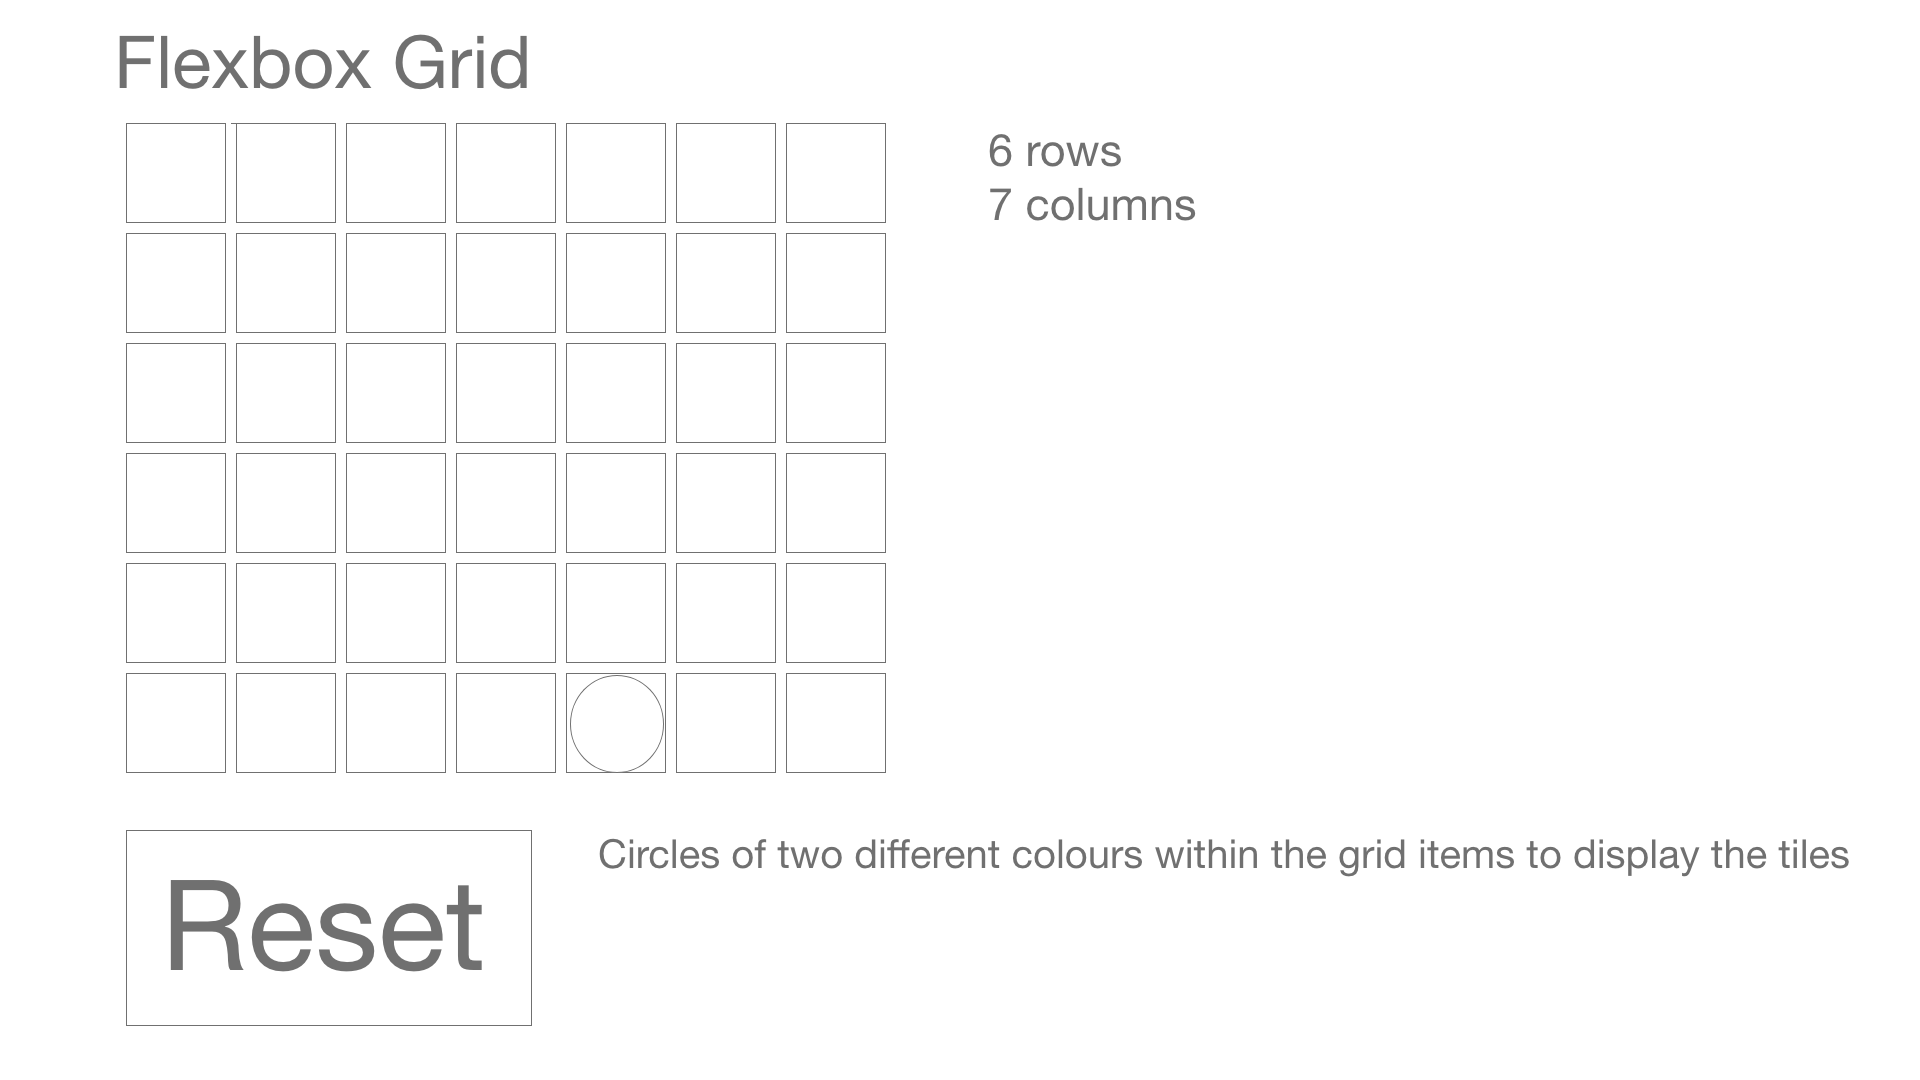
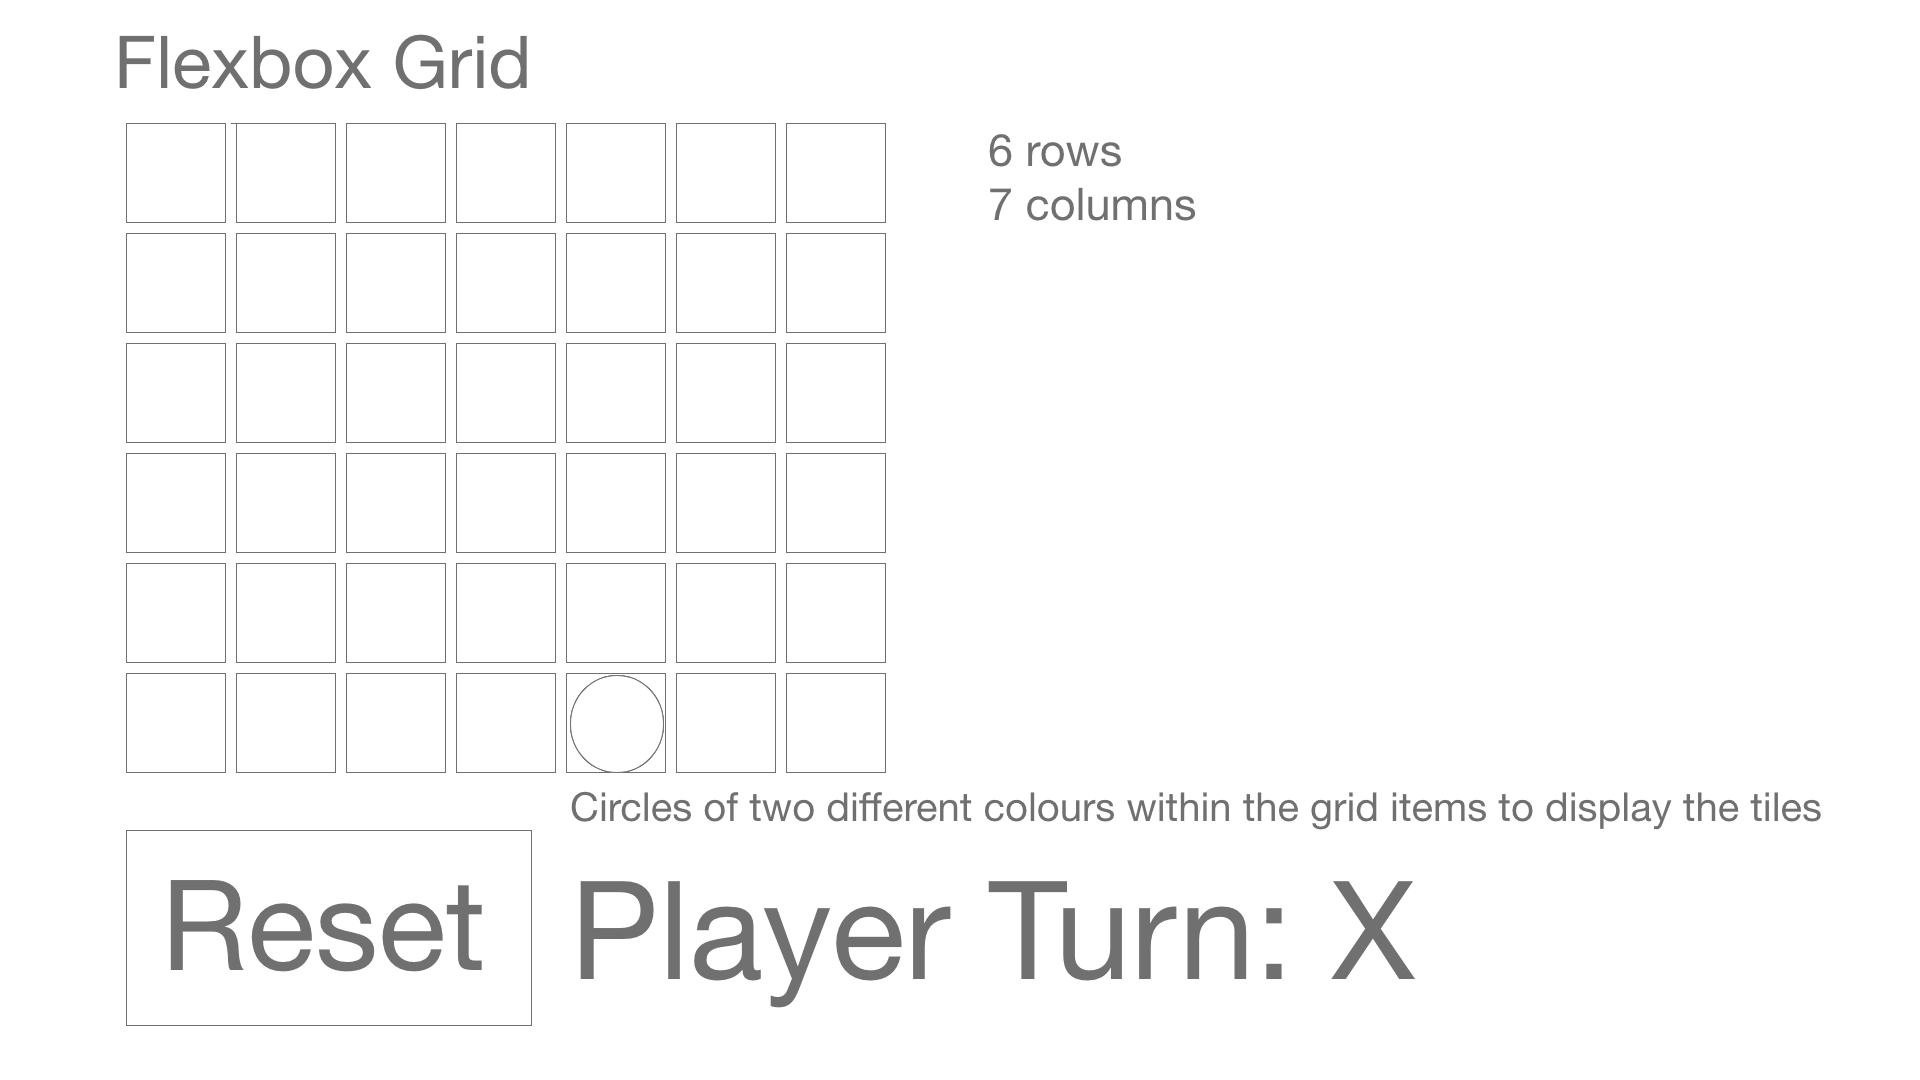
board click logic added with render function to change color based on turn

Changed region(s): [[0.2812, 0.7333, 0.9688, 0.9472]]

diff --git a/script.js b/script.js
@@ -2,13 +2,23 @@ let boardArray = [];
 let board = document.querySelector(".board"); 
 let squares = document.querySelectorAll(".board div");
 let playerTurn = 1;
+let playerTurnEl = document.querySelector("h1");
+let currentClick = null;
+let toFill = null;
 
 Array.from(squares).forEach(square=> {
     square.addEventListener('click', clickSquare)
 })
 
+//event listener which tracks square clicks and then calls render 
+function clickSquare() {
+    let click = parseInt(this.dataset.id);
+    currentClick = click;
+    update();
+    render();
 
-//event listener
+}
+
 // createBoard function fills boardArray with circle data all set to 0
 function createBoard(){ 
     for(let i=0;i<42;i++){ 
@@ -19,17 +29,144 @@ function createBoard(){
 }
 
 function render() {
-    
+    squares.forEach(function(e) {
+
+        if (!e.classList.contains('p1')&&!e.classList.contains('p2')) {
+            if(e.getAttribute('data-id') == toFill && playerTurn == 1) {
+                e.classList.remove('square');
+                e.classList.add('p1');
+                boardArray[toFill] = 1;
+                playerTurn = 2;
+            }
+            else if(e.getAttribute('data-id') == toFill && playerTurn == 2) {
+                e.classList.remove('square');
+                e.classList.add('p2');
+                boardArray[toFill] = 2;
+                playerTurn = 1;
+            }
+        }
+    });
+    playerTurnEl.innerText = "Player Turn: "+playerTurn;
 }
 
-//event listener which tracks square clicks and then handles updating the boardArray, it then calls render
-function clickSquare() {
-    let click = parseInt(this.dataset.id);
-    if (playerTurn ==1) {
-        boardArray[click] = 1;
-        console.log(boardArray[click]);
+
+function update() {
+     //check that class position is empty
+     console.log(currentClick);
+     //far left column logic
+     if (currentClick === 0 ||currentClick === 7||currentClick===14||currentClick===21||currentClick===28||currentClick===35) {
+         if (boardArray[35] == 0) {
+             toFill = 35;
+         } else if (boardArray[35] != 0 && boardArray[28] == 0) {
+             toFill = 28;
+         } else if (boardArray[28] != 0 && boardArray[21] == 0) {
+             toFill = 21;
+         } else if (boardArray[21] != 0 && boardArray[14] == 0) {
+             toFill = 14;
+         } else if (boardArray[14] != 0 && boardArray[7] == 0) {
+             toFill = 7;
+         } else if (boardArray[7] != 0 && boardArray[0] == 0) {
+             toFill = 0;
+         }
+     }
+     //column 01 logic
+      if (currentClick === 1||currentClick === 8||currentClick===15||currentClick===22||currentClick===29||currentClick===36) {
+         if (boardArray[36] == 0) {
+             toFill = 36;
+         } else if (boardArray[36] != 0 && boardArray[29] == 0) {
+             toFill = 29;
+         } else if (boardArray[29] != 0 && boardArray[22] == 0) {
+             toFill = 22;
+         } else if (boardArray[22] != 0 && boardArray[15] == 0) {
+             toFill = 15;
+         } else if (boardArray[15] != 0 && boardArray[8] == 0) {
+             toFill = 8;
+         } else if (boardArray[8] != 0 && boardArray[1] == 0) {
+             toFill = 1;
+         }
+     }
+    //column 02 logic
+    if (currentClick === 2||currentClick === 9||currentClick===16||currentClick===23||currentClick===30||currentClick===37) {
+        if (boardArray[37] == 0) {
+            toFill = 37;
+        } else if (boardArray[37] != 0 && boardArray[30] == 0) {
+            toFill = 30;
+        } else if (boardArray[30] != 0 && boardArray[23] == 0) {
+            toFill = 23;
+        } else if (boardArray[23] != 0 && boardArray[16] == 0) {
+            toFill = 16;
+        } else if (boardArray[16] != 0 && boardArray[9] == 0) {
+            toFill = 9;
+        } else if (boardArray[9] != 0 && boardArray[2] == 0) {
+            toFill = 2;
+        }
     }
-    console.log(click);
-    render();
+    //column 03 logic
+    if (currentClick === 3||currentClick === 10||currentClick===17||currentClick===24||currentClick===31||currentClick===38) {
+        if (boardArray[38] == 0) {
+            toFill = 38;
+        } else if (boardArray[38] != 0 && boardArray[31] == 0) {
+            toFill = 31;
+        } else if (boardArray[31] != 0 && boardArray[24] == 0) {
+            toFill = 24;
+        } else if (boardArray[24] != 0 && boardArray[17] == 0) {
+            toFill = 17;
+        } else if (boardArray[17] != 0 && boardArray[10] == 0) {
+            toFill = 10;
+        } else if (boardArray[10] != 0 && boardArray[3] == 0) {
+            toFill = 3;
+        }
+    }
+     //column 04 logic
+     if (currentClick === 4||currentClick === 11||currentClick===18||currentClick===25||currentClick===32||currentClick===39) {
+        if (boardArray[39] == 0) {
+            toFill = 39;
+        } else if (boardArray[39] != 0 && boardArray[32] == 0) {
+            toFill = 32;
+        } else if (boardArray[32] != 0 && boardArray[25] == 0) {
+            toFill = 25;
+        } else if (boardArray[25] != 0 && boardArray[18] == 0) {
+            toFill = 18;
+        } else if (boardArray[18] != 0 && boardArray[11] == 0) {
+            toFill = 11;
+        } else if (boardArray[11] != 0 && boardArray[4] == 0) {
+            toFill = 4;
+        }
+    }
+      //column 05 logic
+      if (currentClick === 5||currentClick === 12||currentClick===19||currentClick===26||currentClick===33||currentClick===40) {
+        if (boardArray[40] == 0) {
+            toFill = 40;
+        } else if (boardArray[40] != 0 && boardArray[33] == 0) {
+            toFill = 33;
+        } else if (boardArray[33] != 0 && boardArray[26] == 0) {
+            toFill = 26;
+        } else if (boardArray[26] != 0 && boardArray[19] == 0) {
+            toFill = 19;
+        } else if (boardArray[19] != 0 && boardArray[12] == 0) {
+            toFill = 12;
+        } else if (boardArray[12] != 0 && boardArray[5] == 0) {
+            toFill = 5;
+        }
+    }
+     //far right column logic
+     if (currentClick === 6||currentClick === 13||currentClick===20||currentClick===27||currentClick===34||currentClick===41) {
+        if (boardArray[41] == 0) {
+            toFill = 41;
+        } else if (boardArray[41] != 0 && boardArray[34] == 0) {
+            toFill = 34;
+        } else if (boardArray[34] != 0 && boardArray[27] == 0) {
+            toFill = 27;
+        } else if (boardArray[27] != 0 && boardArray[20] == 0) {
+            toFill = 20;
+        } else if (boardArray[20] != 0 && boardArray[13] == 0) {
+            toFill = 13;
+        } else if (boardArray[13] != 0 && boardArray[6] == 0) {
+            toFill = 6;
+        }
+    }
 }
+
+
+
 createBoard();

diff --git a/index.html b/index.html
@@ -64,8 +64,10 @@
             <div data-id="39" class="square"></div>
             <div data-id="40" class="square"></div>
             <div data-id="41" class="square"></div>
-            <div data-id="42" class="square"></div>
         </div>
+        <h1>
+            Player Turn: 1
+        </h1>
         <script src="script.js" async defer></script>
     </body>
 </html>

diff --git a/README.md b/README.md
@@ -3,17 +3,21 @@
 ### Create datatype for what is in each slot
 * 2d array in javascript would work quite well. 
 * Each array could be a position with 3 items representing empty, p1 token, p2 token.
-### Create the board grid
-* since it is preset we can just hard code the css with a flexbox grid of 6x7 and have an empty board showing on refresh. 
+### Create the board grid in HTML/CSS
+* For HTML we could just use a collection of divs encapsulated by div marked as "board" with class. 
+* Since it is preset we can just hard code the board css with a flexbox grid of 6x7 and have an empty board showing on refresh. 
 ### Logic to decide which players turn it is (just needs to alternate after a piece is placed)
 * boolean stored in java that would change a player turn display on render.
-### Event listener for grid elements
-* this would listen for a click on the board which would result in adding a circle somewhere.
+### Event listener/function call for grid element clicked
+* this would listen for a click on the board which would result in adding a circle somewhere in our JS datatype.
 * we could grab which item is clicked then based on the turn could add either 1-2 in the correspdoning array.
 * change the turn.
+* call render
 ### Render the circles
 * need to render the cirlces on to the board after the event listener updates the datastructure.
 * based on the updated javascript datatype render the css circles in the corresponding grid.
-### Create winning combination datatype
+* would do this by checking js datatype and updating divs to have class "emopty", "p1", "p2"
+* have preset CSS for each class 
+### Create winning combination datatype and check function
 * probably just another 2d Array that contains combination of 4 positions that would result in a win.
 * check board positions for both players after each turn against winning combination datatype.
